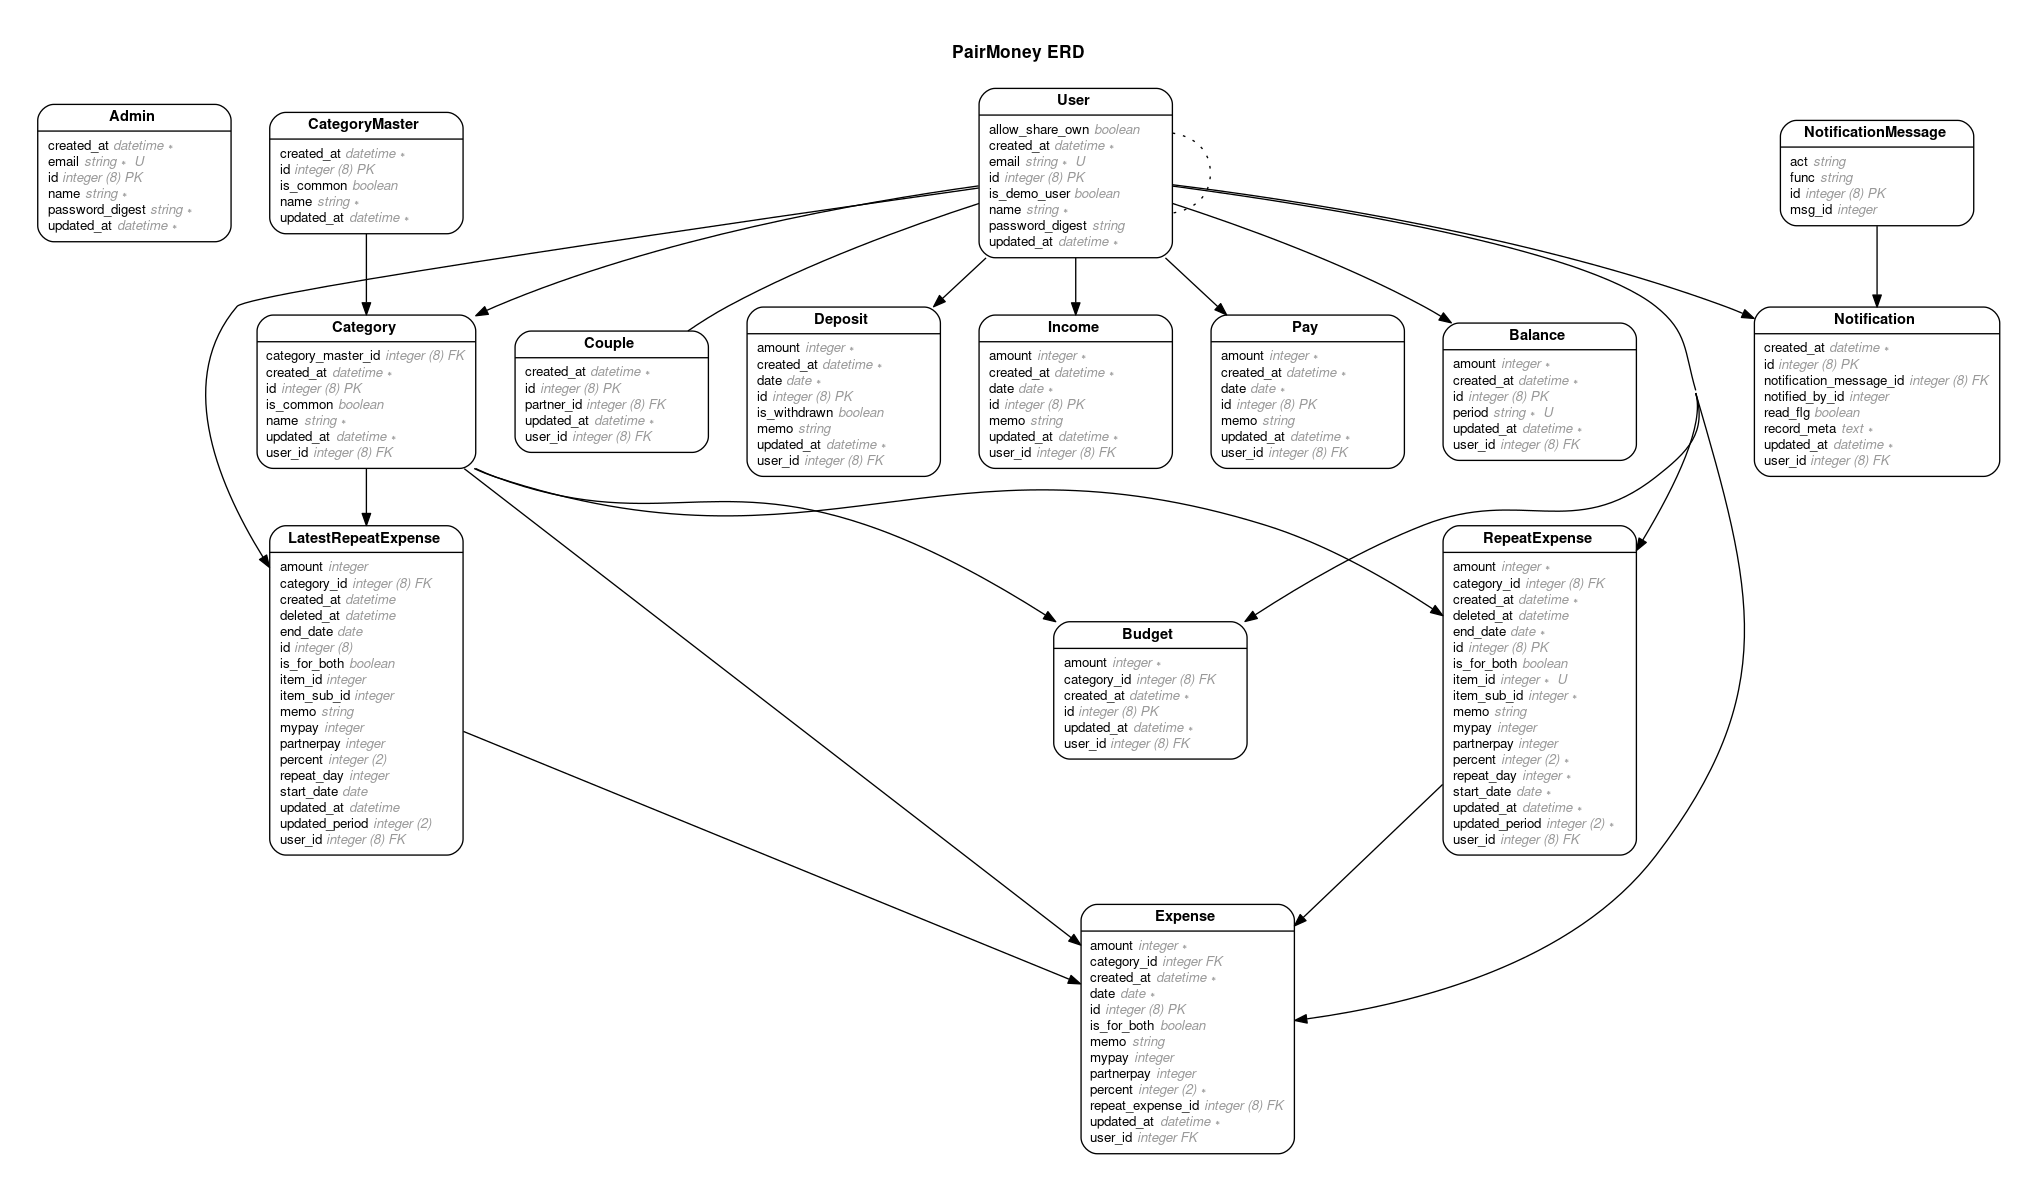
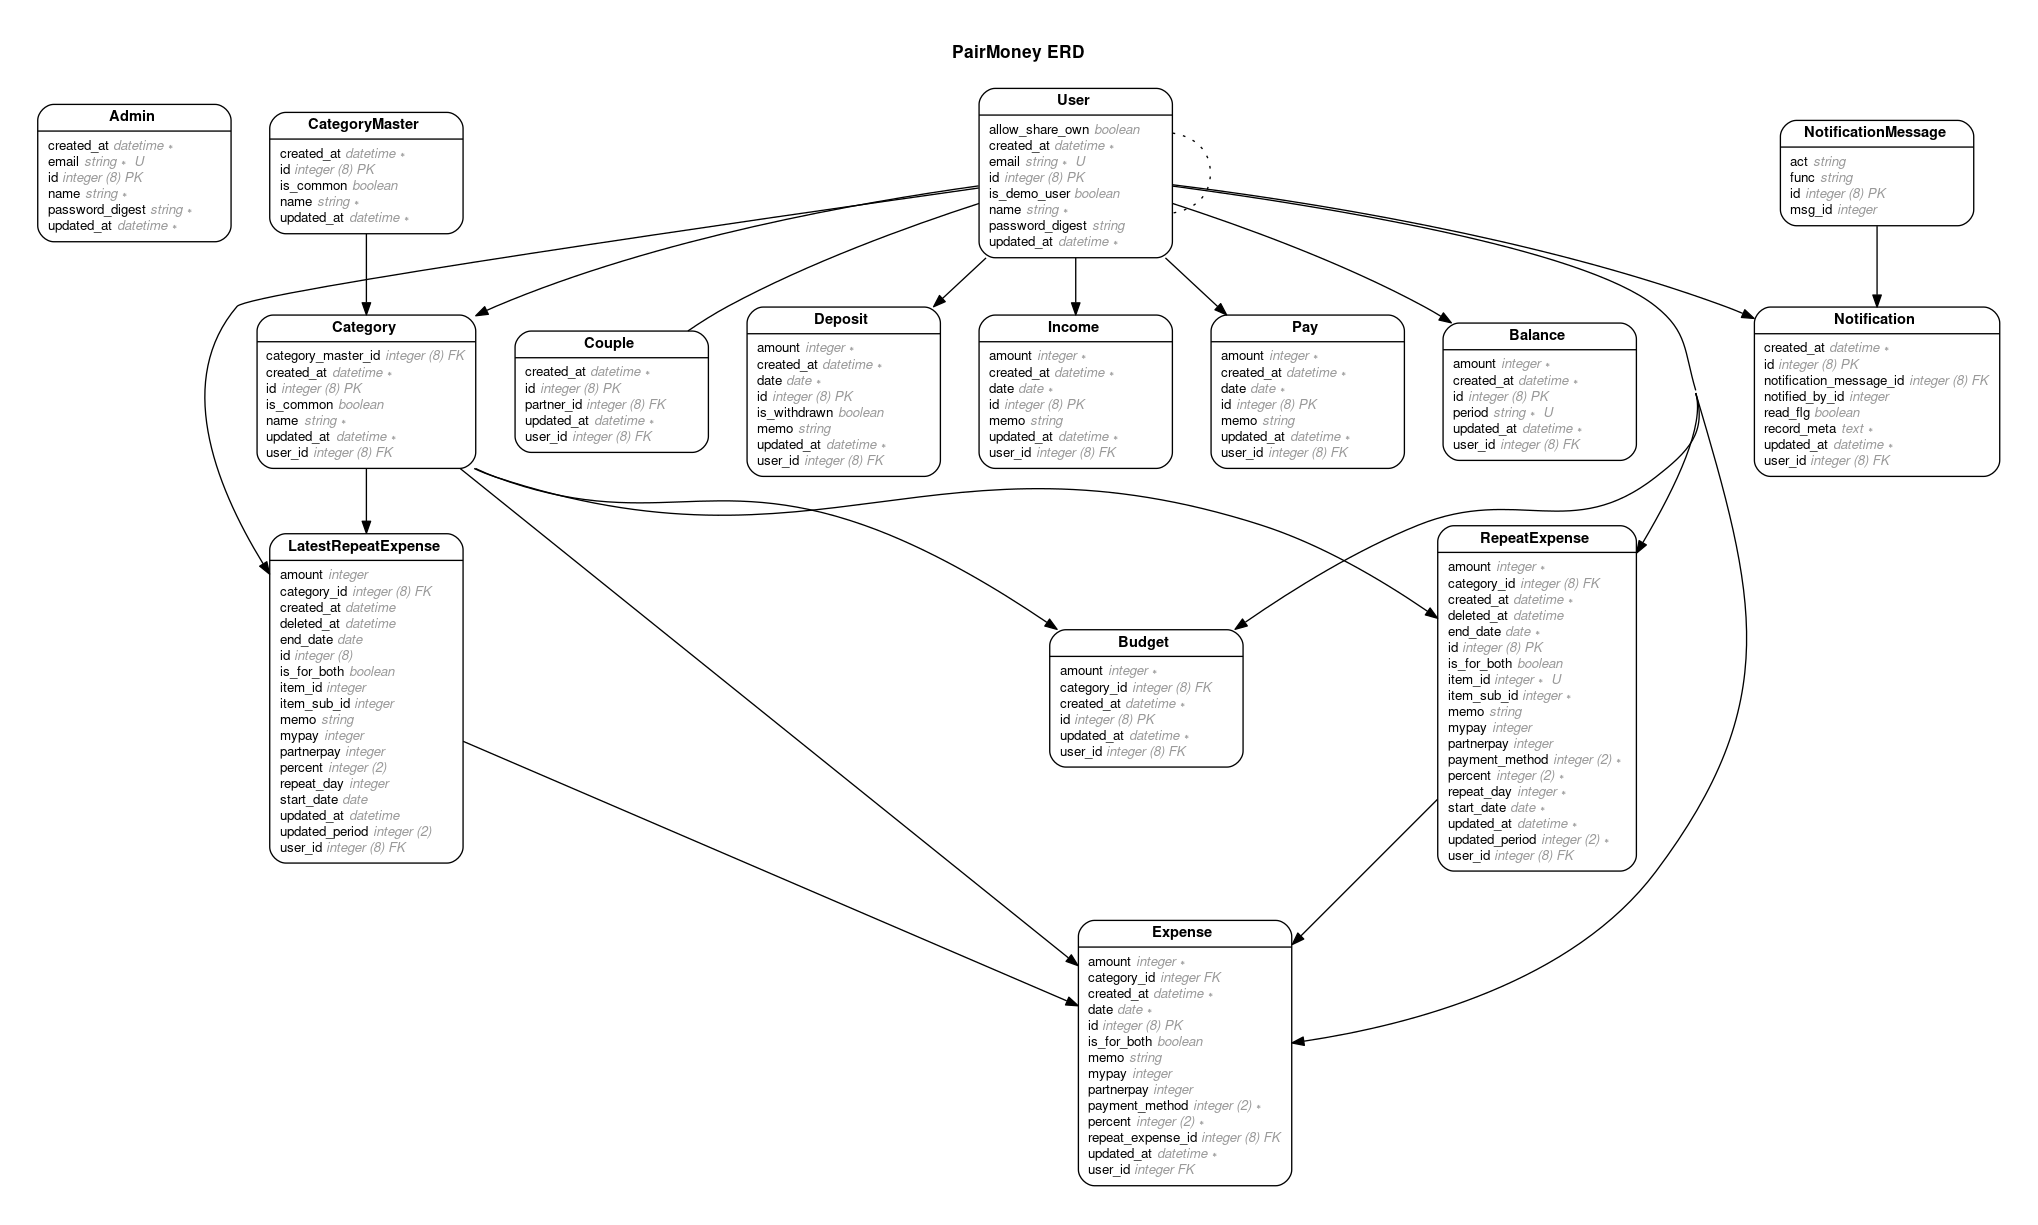
支払い方法を追加し、支払い方法ごとの合計額を表示するように変更

diff --git a/app/models/expense.rb b/app/models/expense.rb
@@ -36,6 +36,7 @@ class Expense < ApplicationRecord
   include PercentCalculator
 
   enum percent: { manual_amount: -1, pay_all: 0, pay_half: 1, pay_one_third: 2, pay_two_thirds: 3, pay_nothing: 4 }
+  enum payment_method: { cash: 0, credit_card: 1, account_transfer: 2 }
 
   attr_accessor :is_new, :is_destroyed, :differences, :skip_calculate_balance
   alias_method :is_new?, :is_new
@@ -54,7 +55,6 @@ class Expense < ApplicationRecord
 
   # 引数はString。 例: "2019-01"
   scope :one_month, -> (period) {where('date >= ? AND date <= ?', period.to_beginning_of_month, period.to_end_of_month)}
-  scope :except_repeat_ones, -> {where.not()}
   scope :category, -> (category_id){unscope(:order).where(category_id: category_id).order(date: :desc, created_at: :desc)}
   scope :both_f, -> {where(is_for_both: false)}
   scope :both_t, -> {where(is_for_both: true)}
@@ -118,15 +118,19 @@ class Expense < ApplicationRecord
   end
 
   # @return [Array]
-  def self.necessary_attributes_from_repeat_exepnses
-    %w(amount memo category_id user_id is_for_both mypay partnerpay percent)
+  def self.necessary_attributes_from_repeat_expenses
+    %w(amount memo payment_method category_id user_id is_for_both mypay partnerpay percent)
   end
 
   # 新しく繰り返し出費が登録されたときに、expensesテーブルに該当する出費をインサートしていくメソッド
   # @param [RepeatExpense] repeat_expense
   def self.creat_repeat_expenses!(repeat_expense)
     expense_attributes = {}
-    repeat_expense.attributes.each{ |k, v| expense_attributes["#{k}"] = v if Expense.necessary_attributes_from_repeat_exepnses.include?(k) }
+    repeat_expense.attributes.each do |k, v|
+      if Expense.necessary_attributes_from_repeat_expenses.include?(k)
+        expense_attributes["#{k}"] = v
+      end
+    end
     start_date = repeat_expense.updated_only_future? ? Date.current : repeat_expense.start_date
     end_date = repeat_expense.end_date
     repeat_day = repeat_expense.repeat_day

diff --git a/db/schema.rb b/db/schema.rb
@@ -10,7 +10,7 @@
 #
 # It's strongly recommended that you check this file into your version control system.
 
-ActiveRecord::Schema.define(version: 2019_11_03_075519) do
+ActiveRecord::Schema.define(version: 2021_11_18_105944) do
 
   # These are extensions that must be enabled in order to support this database
   enable_extension "plpgsql"
@@ -95,6 +95,7 @@ ActiveRecord::Schema.define(version: 2019_11_03_075519) do
     t.integer "partnerpay"
     t.integer "percent", limit: 2, default: 0, null: false
     t.bigint "repeat_expense_id"
+    t.integer "payment_method", limit: 2, default: 0, null: false
     t.index ["repeat_expense_id"], name: "index_expenses_on_repeat_expense_id"
   end
 
@@ -155,6 +156,7 @@ ActiveRecord::Schema.define(version: 2019_11_03_075519) do
     t.integer "item_sub_id", null: false
     t.integer "updated_period", limit: 2, default: 0, null: false
     t.datetime "deleted_at"
+    t.integer "payment_method", limit: 2, default: 0, null: false
     t.index ["category_id"], name: "index_repeat_expenses_on_category_id"
     t.index ["deleted_at"], name: "index_repeat_expenses_on_deleted_at"
     t.index ["user_id", "item_id", "item_sub_id"], name: "index_repeat_expenses_on_user_id_and_item_id_and_item_sub_id", unique: true

diff --git a/app/controllers/repeat_expenses_controller.rb b/app/controllers/repeat_expenses_controller.rb
@@ -113,7 +113,18 @@ class RepeatExpensesController < ApplicationController
 
   private
   def repeat_expense_params
-    permitted_params = params.require(:repeat_expense).permit(:amount, :category_id, :start_date, :end_date, :repeat_day, :memo, :is_for_both, :mypay, :partnerpay).merge(percent: params[:repeat_expense][:percent].to_i)
+    permitted_params = params.require(:repeat_expense).permit(
+      :amount,
+      :category_id,
+      :start_date,
+      :end_date,
+      :repeat_day,
+      :memo,
+      :payment_method,
+      :is_for_both,
+      :mypay,
+      :partnerpay,
+    ).merge(percent: params[:repeat_expense][:percent].to_i)
     if params[:updated_only_future].present?
       permitted_params.merge!(updated_period: "updated_only_future")
     elsif params[:updated_all].present?

diff --git a/db/seeds.rb b/db/seeds.rb
@@ -20,7 +20,7 @@ end
 # 全てのテーブル
 # tables = [Category, Budget, Balance, RepeatExpense, Expense, Pay, Income, Deposit, NotificationMessage, Notification]
 puts "starting - #{__FILE__}"
-tables = [Category, Budget, Balance, RepeatExpense, Expense, Pay, Income, Deposit, Notification]
+tables = [Category, Budget, Balance, RepeatExpense, Expense, Pay, Income, Deposit]
 
 # 全テーブルの全てのレコードを削除し、プライマリーキーのシーケンスをリセットする。
 ActiveRecord::Base.transaction do

diff --git a/app/controllers/expenses_controller.rb b/app/controllers/expenses_controller.rb
@@ -58,8 +58,18 @@ class ExpensesController < ApplicationController
   end
 
   private
+
   def expense_params
-    params.require(:expense).permit(:amount, :category_id, :date, :memo, :is_for_both, :mypay, :partnerpay).merge(percent: params[:expense][:percent].to_i)
+    params.require(:expense).permit(
+      :amount,
+      :category_id,
+      :date,
+      :memo,
+      :payment_method,
+      :is_for_both,
+      :mypay,
+      :partnerpay,
+    ).merge(percent: params[:expense][:percent].to_i)
   end
 
 end

diff --git a/app/helpers/analyses_helper.rb b/app/helpers/analyses_helper.rb
@@ -52,6 +52,12 @@ module AnalysesHelper
     @categories.map{ |c| c.own_expenses_sum(@expenses, user)}.sum
   end
 
+  # 特定の支払い方法の合計額
+  # @return Integer
+  def expenses_sum_of_one_payment_method(payment_method)
+    @expenses.where(user: current_user).find_all { |e| e.send("#{payment_method}?") }.sum(&:amount)
+  end
+
   # 前月の分析ページへ遷移するボタン
   def to_analyses_last_month_btn
     icon = tag.i(class: "fa fa-lg fa-angle-double-left")

diff --git a/app/models/repeat_expense.rb b/app/models/repeat_expense.rb
@@ -52,6 +52,7 @@ class RepeatExpense < ApplicationRecord
   include RepeatExpensesListsDisplayer
 
   enum percent: { manual_amount: -1, pay_all: 0, pay_half: 1, pay_one_third: 2, pay_two_thirds: 3, pay_nothing: 4 }
+  enum payment_method: { cash: 0, credit_card: 1, account_transfer: 2 }
   enum updated_period: { first_item: 0, updated_all: 1, updated_only_future: 2 }
 
   belongs_to :category

diff --git a/db/migrate/20211118105944_add_payment_method_to_repeat_expenses.rb b/db/migrate/20211118105944_add_payment_method_to_repeat_expenses.rb
@@ -1,0 +1,5 @@
+class AddPaymentMethodToRepeatExpenses < ActiveRecord::Migration[6.1]
+  def change
+    add_column :repeat_expenses, :payment_method, :integer, limit: 2, null: false, default: 0
+  end
+end

diff --git a/db/migrate/20211118105935_add_payment_method_to_expenses.rb b/db/migrate/20211118105935_add_payment_method_to_expenses.rb
@@ -1,0 +1,5 @@
+class AddPaymentMethodToExpenses < ActiveRecord::Migration[6.1]
+  def change
+    add_column :expenses, :payment_method, :integer, limit: 2, null: false, default: 0
+  end
+end
